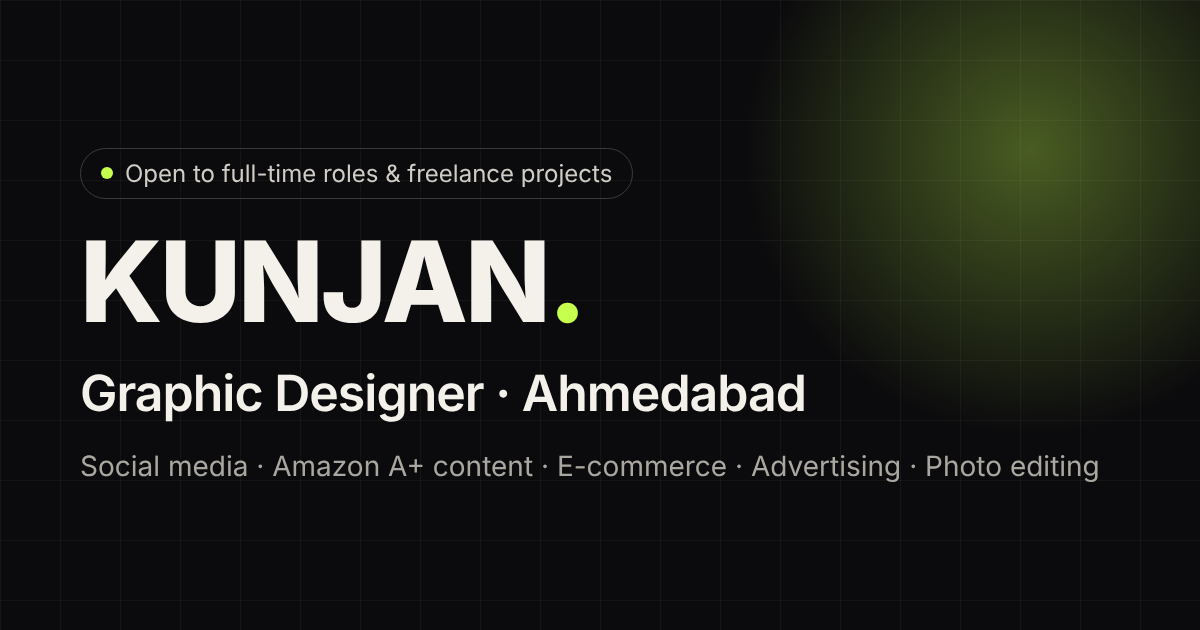
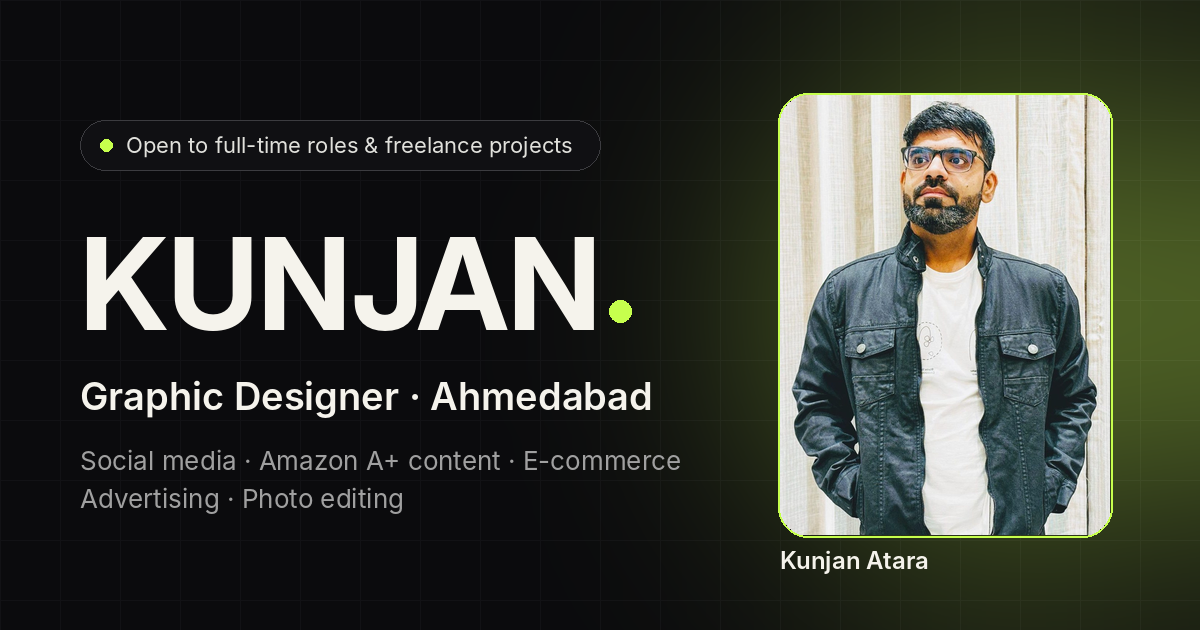
Add How I work section; OG image with portrait
Claude-Session: https://claude.ai/code/session_011gfwfHwL38qghgkLwWxZNX

diff --git a/src/components/sections/HowIWork.css b/src/components/sections/HowIWork.css
@@ -1,0 +1,30 @@
+.hw { padding-block: var(--section-space); border-top: 1px solid var(--color-border); }
+.hw__label { font-family: var(--font-heading); font-size: var(--text-xs); font-weight: 600; letter-spacing: 0.18em; color: var(--color-accent); }
+.hw__title { margin-top: var(--space-5); font-size: clamp(2.2rem, 1rem + 5vw, 5.5rem); font-weight: 700; line-height: 0.98; letter-spacing: -0.045em; text-transform: uppercase; text-wrap: balance; }
+.hw__title span { color: var(--color-accent); }
+.hw__lead { margin-top: var(--space-6); font-size: var(--text-lg); max-width: 34rem; }
+
+.hw__steps { list-style: none; padding: 0; margin: clamp(2.5rem, 6vw, 4.5rem) 0 0; display: grid; grid-template-columns: 1fr; gap: var(--space-4); }
+@media (min-width: 640px) { .hw__steps { grid-template-columns: 1fr 1fr; } }
+@media (min-width: 1000px) { .hw__steps { grid-template-columns: repeat(4, 1fr); gap: var(--space-5); } }
+.hw__step { padding: clamp(1.25rem, 2.2vw, 1.75rem); border: 1px solid var(--color-border-strong); border-radius: var(--radius-lg); background: var(--color-card); transition: border-color var(--duration-base) ease; }
+@media (hover: hover) { .hw__step:hover { border-color: var(--color-accent); } }
+.hw__n { display: block; font-family: var(--font-heading); font-size: var(--text-3xl, 2.5rem); font-weight: 700; line-height: 1; letter-spacing: -0.05em; color: var(--color-accent); font-variant-numeric: tabular-nums; }
+.hw__step h3 { margin-top: var(--space-5); font-size: var(--text-lg); letter-spacing: -0.02em; }
+.hw__step p { margin-top: var(--space-2); color: var(--color-text-muted); line-height: 1.6; }
+
+.hw__cols { display: grid; grid-template-columns: 1fr; gap: var(--space-4); margin-top: var(--space-4); }
+@media (min-width: 900px) { .hw__cols { grid-template-columns: 1fr 1.2fr; gap: var(--space-5); margin-top: var(--space-5); } }
+.hw__box { padding: clamp(1.25rem, 2.2vw, 2rem); border: 1px solid var(--color-border-strong); border-radius: var(--radius-lg); }
+.hw__h { font-size: var(--text-lg); letter-spacing: -0.02em; }
+.hw__tat { margin: var(--space-4) 0 0; }
+.hw__tat div { display: flex; justify-content: space-between; gap: var(--space-4); padding-block: var(--space-3); border-top: 1px solid var(--color-border); }
+.hw__tat dt { color: var(--color-text-muted); }
+.hw__tat dd { margin: 0; text-align: right; font-family: var(--font-heading); font-weight: 600; }
+.hw__terms { list-style: none; padding: 0; margin: var(--space-4) 0 0; }
+.hw__terms li { display: grid; gap: var(--space-1); padding-block: var(--space-3); border-top: 1px solid var(--color-border); }
+.hw__terms b { font-family: var(--font-heading); }
+.hw__terms span { color: var(--color-text-muted); line-height: 1.6; }
+
+.hw__cta { margin-top: var(--space-7, 2.5rem); color: var(--color-text-muted); }
+.hw__cta a { display: inline-flex; align-items: center; gap: 0.4rem; color: var(--color-accent); text-decoration: underline; text-underline-offset: 3px; }

diff --git a/src/components/sections/HowIWork.jsx b/src/components/sections/HowIWork.jsx
@@ -1,0 +1,72 @@
+import { MessageCircle } from 'lucide-react'
+import Container from '../ui/Container.jsx'
+import { scrollToId } from '../../utils/scrollTo.js'
+import './HowIWork.css'
+
+const STEPS = [
+  { t: 'Brief', d: 'You share the goal, references, files and the formats you need.' },
+  { t: 'First draft', d: 'I design the first version and send it over for review.' },
+  { t: 'Feedback', d: 'You send your changes. Two revision rounds are included.' },
+  { t: 'Final files', d: 'I deliver the approved design, ready to use in every format you need.' },
+]
+
+const TURNAROUND = [
+  ['Static post', '1 day'],
+  ['Carousel', '2 days'],
+  ['Video', '2–3 days'],
+  ['Amazon A+ content', 'Depends on requirements'],
+]
+
+const TERMS = [
+  { t: 'Revisions', d: 'Two rounds are included. Extra rounds are charged separately, so if you expect more, let me know upfront.' },
+  { t: 'Replies', d: 'WhatsApp is the fastest, usually within 15–20 minutes. Email can be instant or take a little longer.' },
+  { t: 'Payment', d: 'One-time projects start with a 50% advance. Retainers run on a fixed contract with a fixed payment date.' },
+]
+
+export default function HowIWork() {
+  return (
+    <section id="process" className="hw">
+      <Container>
+        <p className="hw__label">HOW I WORK</p>
+        <h2 className="hw__title">Simple, clear, on time<span>.</span></h2>
+        <p className="hw__lead">No guesswork. Here is how a project runs, how long things usually take and what to expect along the way.</p>
+
+        <ol className="hw__steps" role="list">
+          {STEPS.map((s, i) => (
+            <li key={s.t} className="hw__step">
+              <span className="hw__n" aria-hidden="true">{String(i + 1).padStart(2, '0')}</span>
+              <h3>{s.t}</h3>
+              <p>{s.d}</p>
+            </li>
+          ))}
+        </ol>
+
+        <div className="hw__cols">
+          <div className="hw__box">
+            <h3 className="hw__h">Typical turnaround</h3>
+            <dl className="hw__tat">
+              {TURNAROUND.map(([k, v]) => (
+                <div key={k}><dt>{k}</dt><dd>{v}</dd></div>
+              ))}
+            </dl>
+          </div>
+          <div className="hw__box">
+            <h3 className="hw__h">Good to know</h3>
+            <ul className="hw__terms" role="list">
+              {TERMS.map((x) => (
+                <li key={x.t}><b>{x.t}</b><span>{x.d}</span></li>
+              ))}
+            </ul>
+          </div>
+        </div>
+
+        <p className="hw__cta">
+          Have something in mind?{' '}
+          <a href="#contact" onClick={(e) => { e.preventDefault(); scrollToId('contact') }} data-cursor>
+            <MessageCircle size={16} aria-hidden="true" /> Tell me about it
+          </a>
+        </p>
+      </Container>
+    </section>
+  )
+}

diff --git a/src/App.jsx b/src/App.jsx
@@ -5,6 +5,7 @@ import Work from './components/sections/Work.jsx'
 import Container from './components/ui/Container.jsx'
 import AboutArcade from './components/sections/AboutArcade.jsx'
 import Services from './components/sections/Services.jsx'
+import HowIWork from './components/sections/HowIWork.jsx'
 import Testimonials from './components/sections/Testimonials.jsx'
 import Community from './components/sections/Community.jsx'
 import WhyHire from './components/sections/WhyHire.jsx'
@@ -28,6 +29,7 @@ export default function App() {
         <Work />
         <About />
         <Services />
+        <HowIWork />
         <Testimonials />
         <Community />
         <section id="arcade" className="arcade-section" aria-label="Creative break and creative journey">
